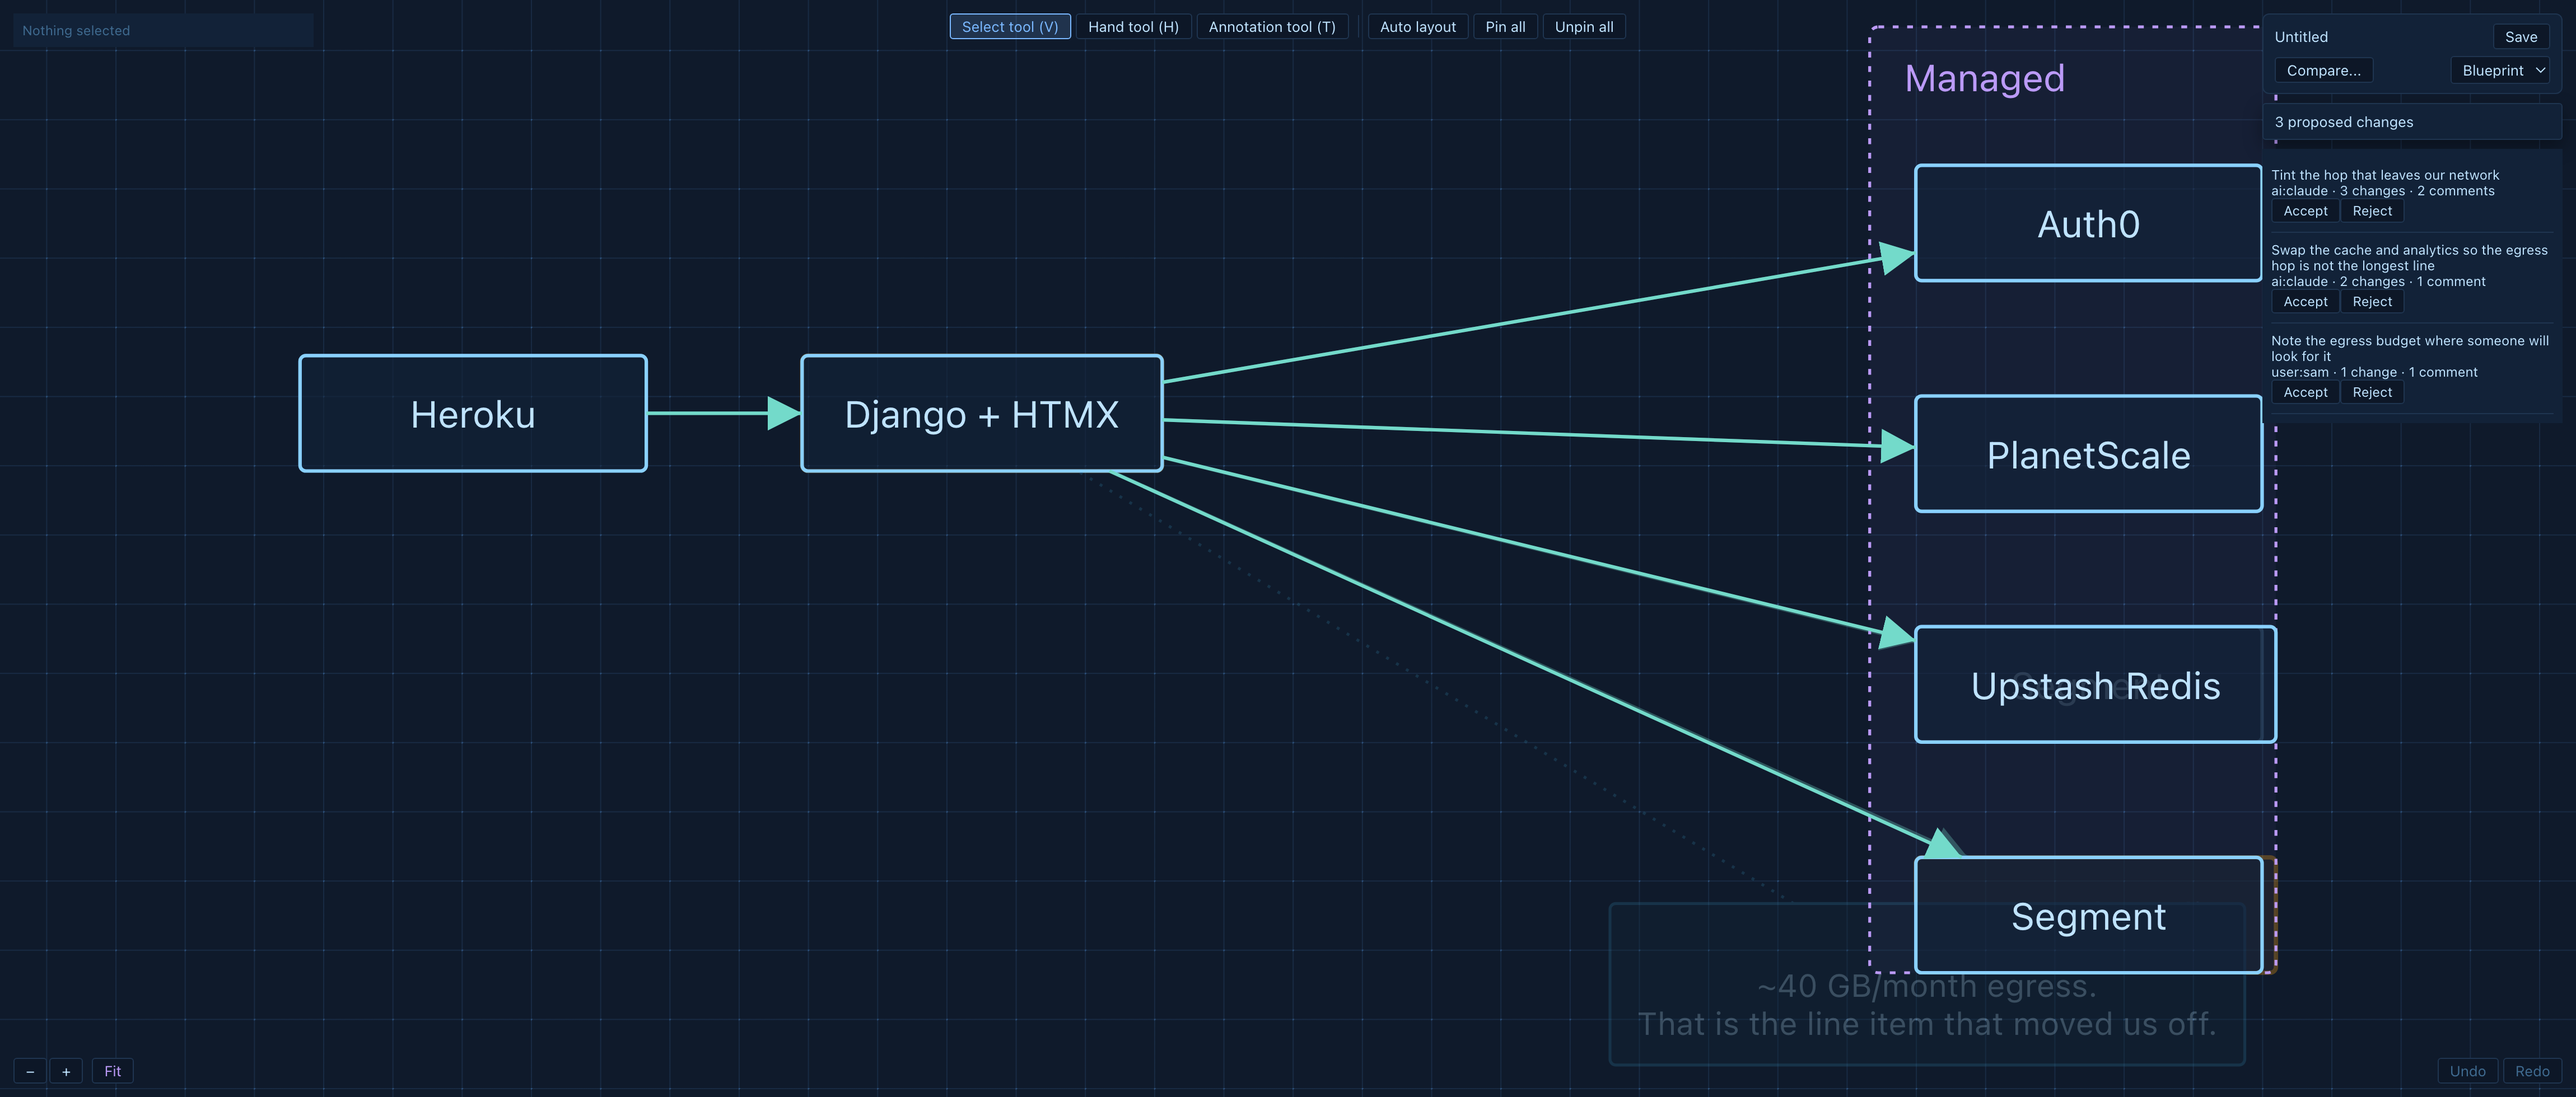
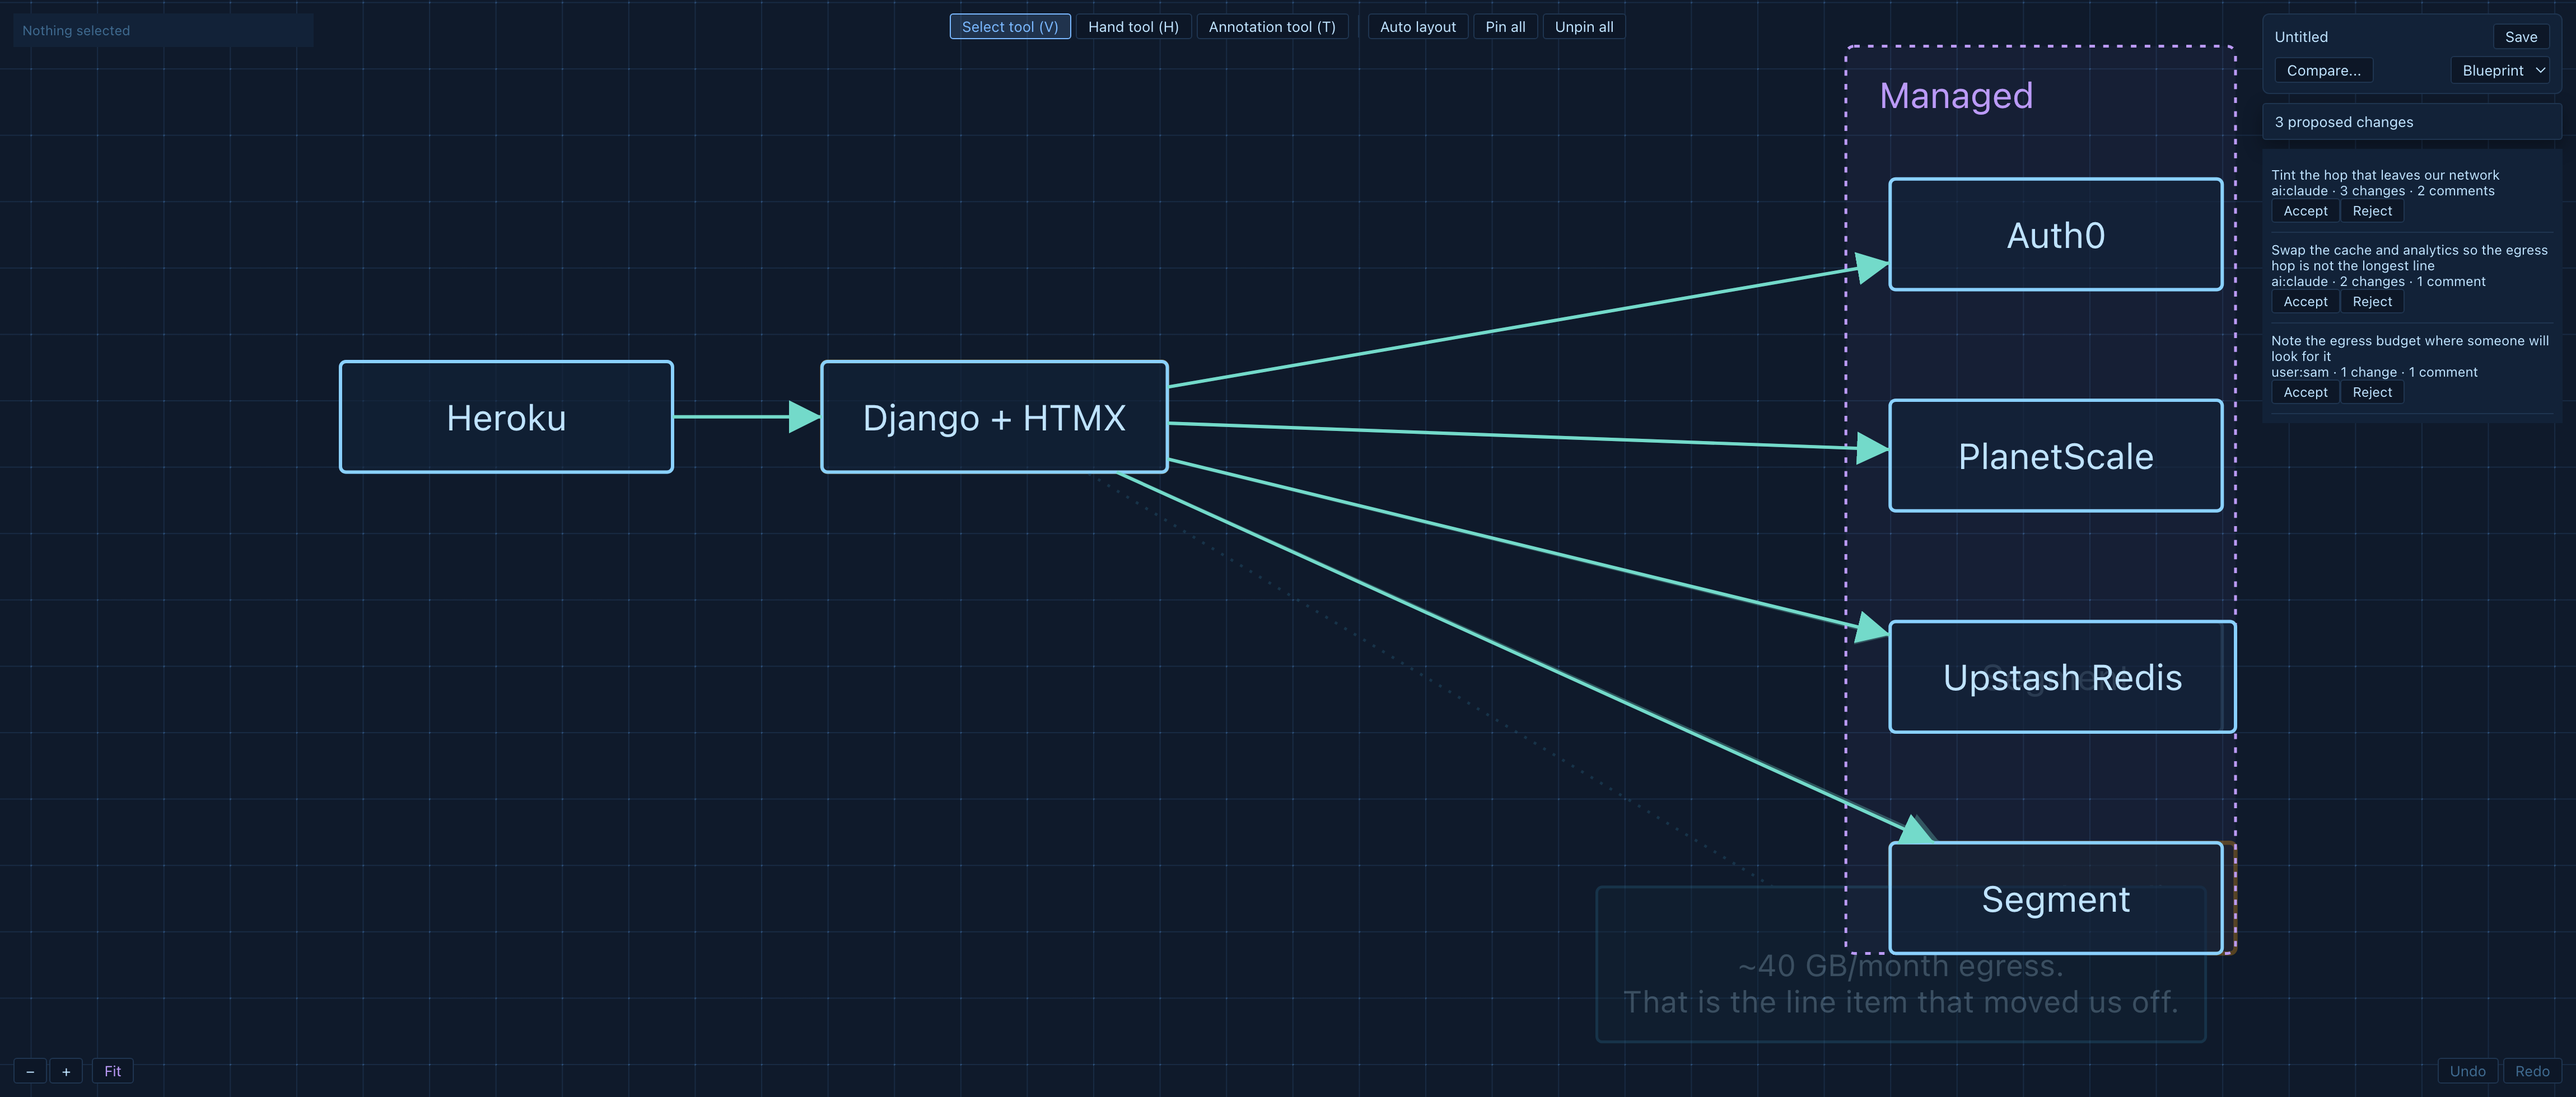
fix(editor): fit the diagram to the canvas a reader can actually see
The canvas runs full-bleed and the islands float on top of it, so fitting
to the whole rect centred the diagram underneath them. On a wide window
the first frame a visitor got had the right-hand group sitting behind the
review panel -- recoverable with Fit, except Fit had the same bug.

fitBoundsToRect now takes the edges something opaque covers and fits into
what is left. Only the two side columns are counted: they are full-height
and always rendered, where the toolbar and corner islands are short and
sit over margin the fit padding already leaves.

The insets shrink proportionally once they would claim more than half an
axis, rather than switching off at a threshold. The first version did
switch off, and the property test found the seam immediately -- at 1121px
the diagram jumped scale between one pixel of window width and the next.

The two generated zoom-fit cases pinned the old formula and now pin the
new one; the file says it has been repaired so a regenerate does not
silently drop that. docs/img/editor-review.png is the same screenshot
script re-run, so the README hero shows the framing a visitor now gets.

diff --git a/packages/editor/tests/testgen_editor-shell-islands__packages_editor_src_gestures_commands_ts_COMMANDS_.test.tsx b/packages/editor/tests/testgen_editor-shell-islands__packages_editor_src_gestures_commands_ts_COMMANDS_.test.tsx
@@ -1,5 +1,6 @@
-// Generated by `archegraph testgen` — do not edit by hand.
-// Re-run `archegraph testgen --spec <name>` to regenerate.
+// Generated by `archegraph testgen`, then repaired by hand. Regenerating
+// discards the repairs: the two zoom-fit cases below were rewritten when
+// zoom-fit started leaving the island columns clear.
 
 import { describe, expect, test } from 'bun:test';
 import * as fc from 'fast-check';
@@ -12,9 +13,14 @@ import { CommandId } from '../src/ui_state/keymap';
 import { clearSelection } from '../src/ui_state/selection_ops';
 import { UiState } from '../src/ui_state/ui_state';
 import { ContainerRect, fitBoundsToRect, zoomAboutPoint } from '../src/ui_state/viewport_math';
+import { CANVAS_INSETS } from '../src/shell/island_frame';
 
 describe('testgen_gestures__COMMANDS', () => {
     type SpyViewport = { zoom: number; panX: number; panY: number };
+
+    /** Width zoom-fit actually has to work with, once the columns are clear. */
+    const clearWidth = (width: number): number =>
+      width - Math.min(CANVAS_INSETS.left + CANVAS_INSETS.right, width / 2);
 
     // The stubs stand in for EditorState/UiState/SceneGeometry, which carry far
     // more surface than any command here touches. Hence the cast.
@@ -154,7 +160,7 @@ describe('testgen_gestures__COMMANDS', () => {
             fc.property(fc.record({ rect: fc.record({ left: fc.integer({ min: -1000, max: 1000 }), top: fc.integer({ min: -1000, max: 1000 }), width: fc.integer({ min: 100, max: 2000 }), height: fc.integer({ min: 100, max: 2000 }) }) }), (value) => {
         const context = makeContext({ zoom: 2, panX: 13, panY: -7 }, value.rect, { index: [{ ref: { kind: 'node', id: 'n' }, bounds: { minX: 0, minY: 0, maxX: 1, maxY: 1 } }], contentBounds: { minX: -20, minY: 10, maxX: 180, maxY: 110 } });
         commandFor('zoom-fit').run(context);
-        expect(context.viewport.zoom).toBeCloseTo(Math.min((value.rect.width - 80) / 200, (value.rect.height - 80) / 100), 12);
+        expect(context.viewport.zoom).toBeCloseTo(Math.min((clearWidth(value.rect.width) - 80) / 200, (value.rect.height - 80) / 100), 12);
             })
         );
     });
@@ -165,7 +171,7 @@ describe('testgen_gestures__COMMANDS', () => {
         const contentBounds = { minX: 100, minY: 200, maxX: 300, maxY: 400 };
         const context = makeContext({ zoom: 1, panX: 0, panY: 0 }, value.rect, { index: [{ ref: { kind: 'node', id: 'n' }, bounds: { minX: 0, minY: 0, maxX: 1, maxY: 1 } }], contentBounds });
         commandFor('zoom-fit').run(context);
-        expect(context.viewport.zoom).toBeCloseTo(Math.min((value.rect.width - 80) / 200, (value.rect.height - 80) / 200), 12);
+        expect(context.viewport.zoom).toBeCloseTo(Math.min((clearWidth(value.rect.width) - 80) / 200, (value.rect.height - 80) / 200), 12);
         expect(context.viewport.panX).toBeCloseTo(value.rect.width / 2 - 200 * context.viewport.zoom, 12);
         expect(context.viewport.panY).toBeCloseTo(value.rect.height / 2 - 300 * context.viewport.zoom, 12);
             })

diff --git a/packages/editor/src/ui_state/ui_state.test.ts b/packages/editor/src/ui_state/ui_state.test.ts
@@ -19,6 +19,7 @@ import {
   diagramToScreen,
   zoomAboutPoint,
   fitBoundsToRect,
+  NO_INSETS,
   type ContainerRect,
 } from './viewport_math';
 import {
@@ -244,6 +245,59 @@ describe('viewport_math: fitBoundsToRect', () => {
     expect(withPadding.zoom).toBeLessThan(noPadding.zoom);
     // With 100px padding each side: avail = 800 -> zoom = 8.
     expect(withPadding.zoom).toBeCloseTo(8, 10);
+  });
+});
+
+describe('viewport_math: fitBoundsToRect clears the island columns', () => {
+  const columns = { left: 280, right: 280, top: 0, bottom: 0 };
+
+  test('content lands between the columns, not underneath them', () => {
+    const contentBounds = bounds(0, 0, 1000, 200);
+    const containerRect = rect(0, 0, 1200, 800);
+
+    const result = fitBoundsToRect(contentBounds, containerRect, 24, columns);
+    const left = diagramToScreen(result, containerRect, { x: 0, y: 0 }).x;
+    const right = diagramToScreen(result, containerRect, { x: 1000, y: 0 }).x;
+
+    expect(left).toBeGreaterThanOrEqual(280);
+    expect(right).toBeLessThanOrEqual(1200 - 280);
+  });
+
+  test('the fit is tighter than one that ignores the columns', () => {
+    const contentBounds = bounds(0, 0, 1000, 200);
+    const containerRect = rect(0, 0, 1200, 800);
+
+    expect(fitBoundsToRect(contentBounds, containerRect, 24, columns).zoom)
+      .toBeLessThan(fitBoundsToRect(contentBounds, containerRect, 24).zoom);
+  });
+
+  test('a window narrower than its own chrome still keeps half of it clear', () => {
+    const contentBounds = bounds(0, 0, 100, 100);
+    const containerRect = rect(0, 0, 400, 400);
+
+    const result = fitBoundsToRect(contentBounds, containerRect, 0, columns);
+    const left = diagramToScreen(result, containerRect, { x: 0, y: 0 }).x;
+    const right = diagramToScreen(result, containerRect, { x: 100, y: 0 }).x;
+
+    expect(left).toBeCloseTo(100, 6);
+    expect(right - left).toBeCloseTo(200, 6);
+  });
+
+  test('the scale is continuous across the width where the columns stop fitting', () => {
+    const contentBounds = bounds(0, 0, 1000, 200);
+    const zoomAt = (width: number): number =>
+      fitBoundsToRect(contentBounds, rect(0, 0, width, 800), 24, columns).zoom;
+
+    // 1120 is the seam: below it the columns no longer fit in half the width.
+    expect(Math.abs(zoomAt(1121) - zoomAt(1120))).toBeLessThan(0.01);
+  });
+
+  test('omitting the insets leaves the fit exactly where it was', () => {
+    const contentBounds = bounds(0, 0, 100, 50);
+    const containerRect = rect(0, 0, 1000, 1000);
+
+    expect(fitBoundsToRect(contentBounds, containerRect, 24, NO_INSETS))
+      .toEqual(fitBoundsToRect(contentBounds, containerRect, 24));
   });
 });
 

diff --git a/packages/editor/src/ui_state/viewport_math.ts b/packages/editor/src/ui_state/viewport_math.ts
@@ -34,19 +34,50 @@ export function screenToDiagram(viewport: Viewport, containerRect: ContainerRect
   const localY = screenPt.y - containerRect.top;
   return { x: (localX - viewport.panX) / viewport.zoom, y: (localY - viewport.panY) / viewport.zoom };
 }
-export function fitBoundsToRect(bounds: Bounds, containerRect: ContainerRect, padding: number): Viewport {
+/** Edges of the container something opaque covers, in CSS pixels. */
+export interface ViewportInsets {
+  left: number;
+  right: number;
+  top: number;
+  bottom: number;
+}
+
+export const NO_INSETS: ViewportInsets = { left: 0, right: 0, top: 0, bottom: 0 };
+
+/**
+ * The insets, shrunk together so they never claim more than half the axis.
+ *
+ * A window narrower than its own chrome would otherwise fit the diagram into
+ * nothing. Shrinking proportionally rather than dropping them at a threshold
+ * keeps the scale continuous, so dragging a window across the width where the
+ * columns stop fitting does not jump.
+ */
+function affordable(extent: number, near: number, far: number): { near: number; far: number } {
+  const total = near + far;
+  if (total <= 0) {
+    return { near: 0, far: 0 };
+  }
+  const scale = Math.min(1, extent / 2 / total);
+  return { near: near * scale, far: far * scale };
+}
+
+export function fitBoundsToRect(bounds: Bounds, containerRect: ContainerRect, padding: number, insets: ViewportInsets = NO_INSETS): Viewport {
   const contentWidth = bounds.maxX - bounds.minX;
   const contentHeight = bounds.maxY - bounds.minY;
-  const availWidth = containerRect.width - padding * 2;
-  const availHeight = containerRect.height - padding * 2;
+  const horizontal = affordable(containerRect.width, insets.left, insets.right);
+  const vertical = affordable(containerRect.height, insets.top, insets.bottom);
+  const clearWidth = containerRect.width - horizontal.near - horizontal.far;
+  const clearHeight = containerRect.height - vertical.near - vertical.far;
+  const availWidth = clearWidth - padding * 2;
+  const availHeight = clearHeight - padding * 2;
   const zoom = contentWidth <= 0 || contentHeight <= 0
     ? 1
     : Math.min(availWidth / contentWidth, availHeight / contentHeight);
   const centre = boundsCentre(bounds);
   return {
     zoom,
-    panX: containerRect.width / 2 - centre.x * zoom,
-    panY: containerRect.height / 2 - centre.y * zoom,
+    panX: horizontal.near + clearWidth / 2 - centre.x * zoom,
+    panY: vertical.near + clearHeight / 2 - centre.y * zoom,
   };
 }
 export function centerBoundsInRect(viewport: Viewport, bounds: Bounds, containerRect: ContainerRect): Viewport {

diff --git a/packages/editor/src/shell/island_frame.tsx b/packages/editor/src/shell/island_frame.tsx
@@ -1,6 +1,7 @@
 // SPDX-License-Identifier: AGPL-3.0-or-later
 
 import type { JSX } from 'solid-js';
+import type { ViewportInsets } from '../ui_state/viewport_math';
 
 /**
  * Gap in CSS pixels between an island and the viewport edge. 12.
@@ -30,7 +31,21 @@ export class IslandFrameProps {
 }
 
 /** Matches the inspector, so the two columns frame the canvas evenly. */
-const SIDE_COLUMN_WIDTH: string = '268px';
+export const SIDE_COLUMN_WIDTH: number = 268;
+
+/**
+ * Canvas edges a viewport fit must leave clear.
+ *
+ * Only the side columns count. They are full-height and always rendered;
+ * the toolbar and corner islands are short and sit over margin the fit
+ * padding already leaves.
+ */
+export const CANVAS_INSETS: ViewportInsets = {
+  left: ISLAND_INSET + SIDE_COLUMN_WIDTH,
+  right: ISLAND_INSET + SIDE_COLUMN_WIDTH,
+  top: 0,
+  bottom: 0,
+};
 
 /** Render one positioning-only island slot. */
 function IslandSlot(props: {
@@ -102,7 +117,7 @@ export const IslandFrame = (props: IslandFrameProps): JSX.Element => {
             'flex-direction': 'column',
             'align-items': 'flex-end',
             gap: '8px',
-            width: SIDE_COLUMN_WIDTH,
+            width: `${SIDE_COLUMN_WIDTH}px`,
             'max-height': '100%',
           }}>
             {props.file}

diff --git a/packages/editor/src/canvas/canvas.tsx b/packages/editor/src/canvas/canvas.tsx
@@ -12,6 +12,7 @@ import { Scene, SceneGeometry } from '../scene/scene';
 import { Handle, handleAtPoint, hitTestPoint } from '../scene/hit_test';
 import { ElementRef, UiState } from '../ui_state/ui_state';
 import { centerBoundsInRect, ContainerRect, fitBoundsToRect, screenToDiagram } from '../ui_state/viewport_math';
+import { CANVAS_INSETS } from '../shell/island_frame';
 import { cursorFor } from './cursor';
 import { DiagramLayer } from './diagram_layer';
 import { GhostLayer } from './ghost_layer';
@@ -447,7 +448,7 @@ export const Canvas: Component<CanvasProps> = (props: CanvasProps): JSX.Element 
     const rect: ContainerRect = containerRect();
     if (!fitDone() && currentGeometry !== undefined && rect.width > 0 && rect.height > 0) {
       const bounds: Bounds = currentGeometry.contentBounds;
-      props.ui.setViewport(fitBoundsToRect(bounds, rect, 24));
+      props.ui.setViewport(fitBoundsToRect(bounds, rect, 24, CANVAS_INSETS));
       setFitDone(true);
     }
   });

diff --git a/packages/editor/src/gestures/commands.ts b/packages/editor/src/gestures/commands.ts
@@ -5,6 +5,7 @@ import { Vec2Schema } from '@archeglyph/proto/gen/style_pb';
 import { Bounds } from '@archeglyph/core/geometry/bounds';
 import type { CommandId } from '../ui_state/keymap';
 import { ContainerRect, fitBoundsToRect, screenToDiagram, zoomAboutPoint } from '../ui_state/viewport_math';
+import { CANVAS_INSETS } from '../shell/island_frame';
 import { EditorState } from '../state/editor_state';
 import { SceneGeometry } from '../scene/scene';
 import { UiState, ElementRef } from '../ui_state/ui_state';
@@ -262,7 +263,7 @@ function runZoomFit(context: CommandContext): void {
     || context.geometry === undefined || context.geometry.index.length === 0) {
     return;
   }
-  context.ui.setViewport(fitBoundsToRect(context.geometry.contentBounds, context.rect, FIT_PADDING));
+  context.ui.setViewport(fitBoundsToRect(context.geometry.contentBounds, context.rect, FIT_PADDING, CANVAS_INSETS));
 }
 
 export const COMMANDS: Array<Command> = [
